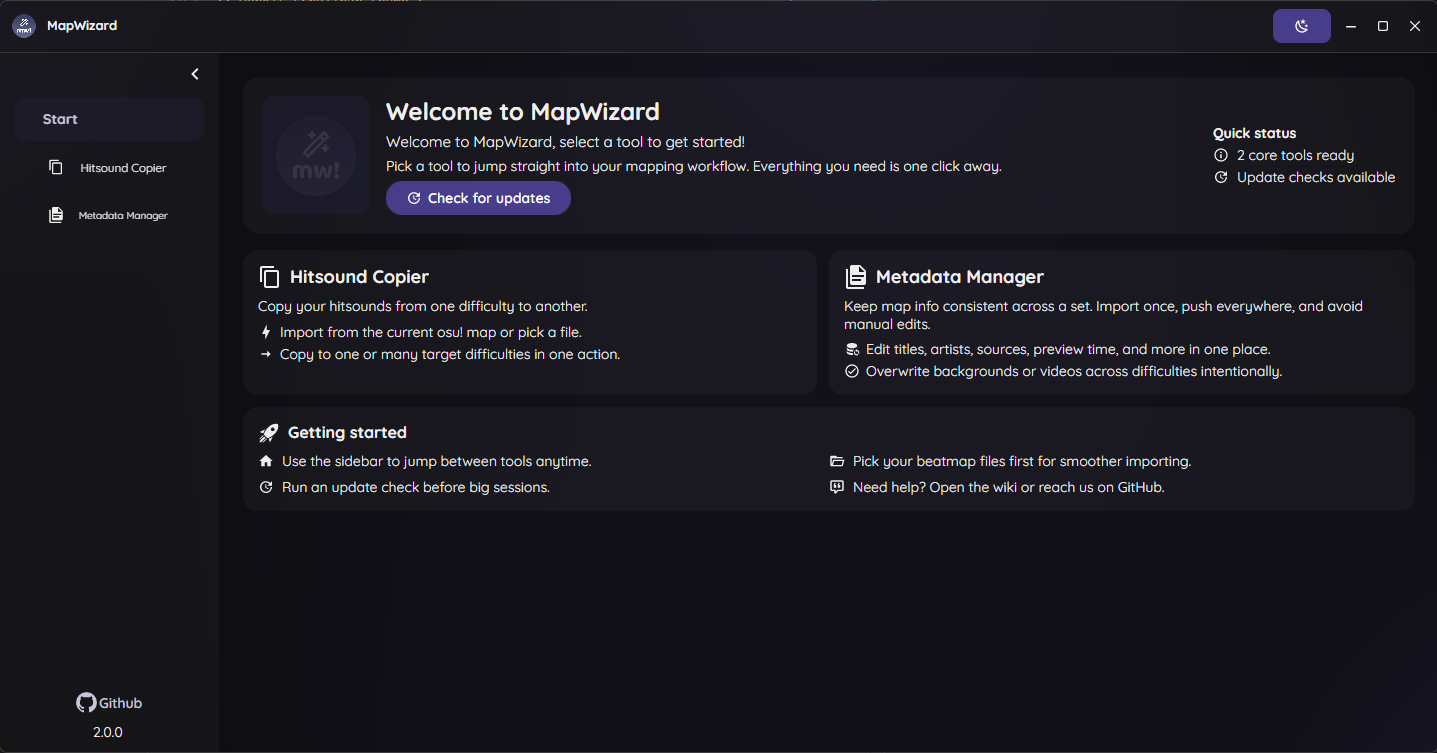
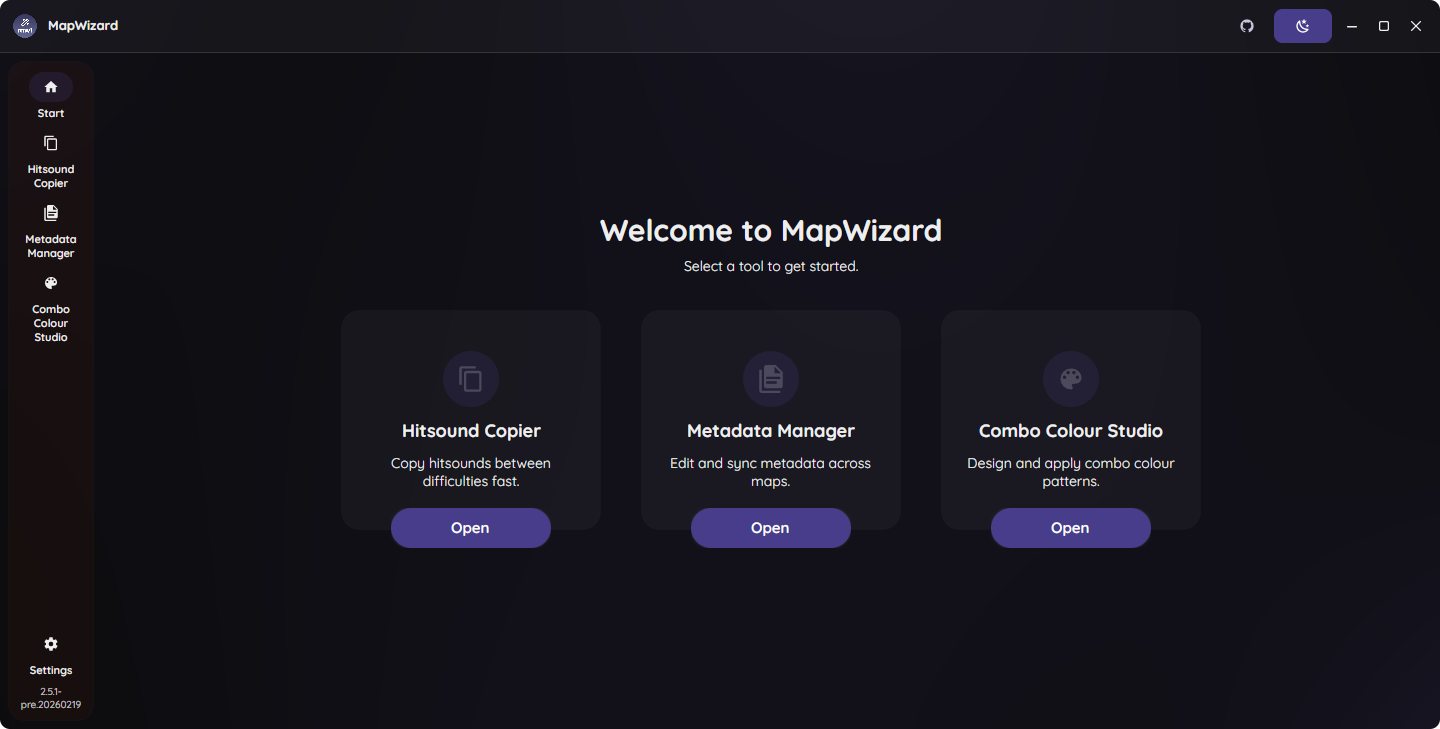
feat: Update feature section with new screenshots

diff --git a/src/sections/Features.tsx b/src/sections/Features.tsx
@@ -39,17 +39,17 @@ export default function Features() {
             description: 'Quickly edit and standardize map metadata across multiple difficulties. Keep your beatmapset information consistent and professional.',
             image: '/img/screenshot3.png',
             icon: FileText,
-            badge: 'NEW',
-            badgeColor: 'bg-amber-500/20 text-amber-400 border-amber-500/30',
+            badge: null,
+            badgeColor: 'bg-green-500/20 text-green-400 border-green-500/30',
             offset: 80,
         },
         {
             title: 'Combo Colour Studio',
             description: 'Craft the perfect combo colours for your maps. Generate harmonious color schemes from background images or create custom palettes.',
-            image: 'https://placehold.co/600x400/1e1e2e/5f6690?text=WIP+Feature',
+            image: '/img/screenshot4.png',
             icon: Palette,
-            badge: "SOON",
-            badgeColor: '',
+            badge: 'NEW',
+            badgeColor: 'bg-amber-500/20 text-amber-400 border-amber-500/30',
             offset: 40,
         },
     ];
